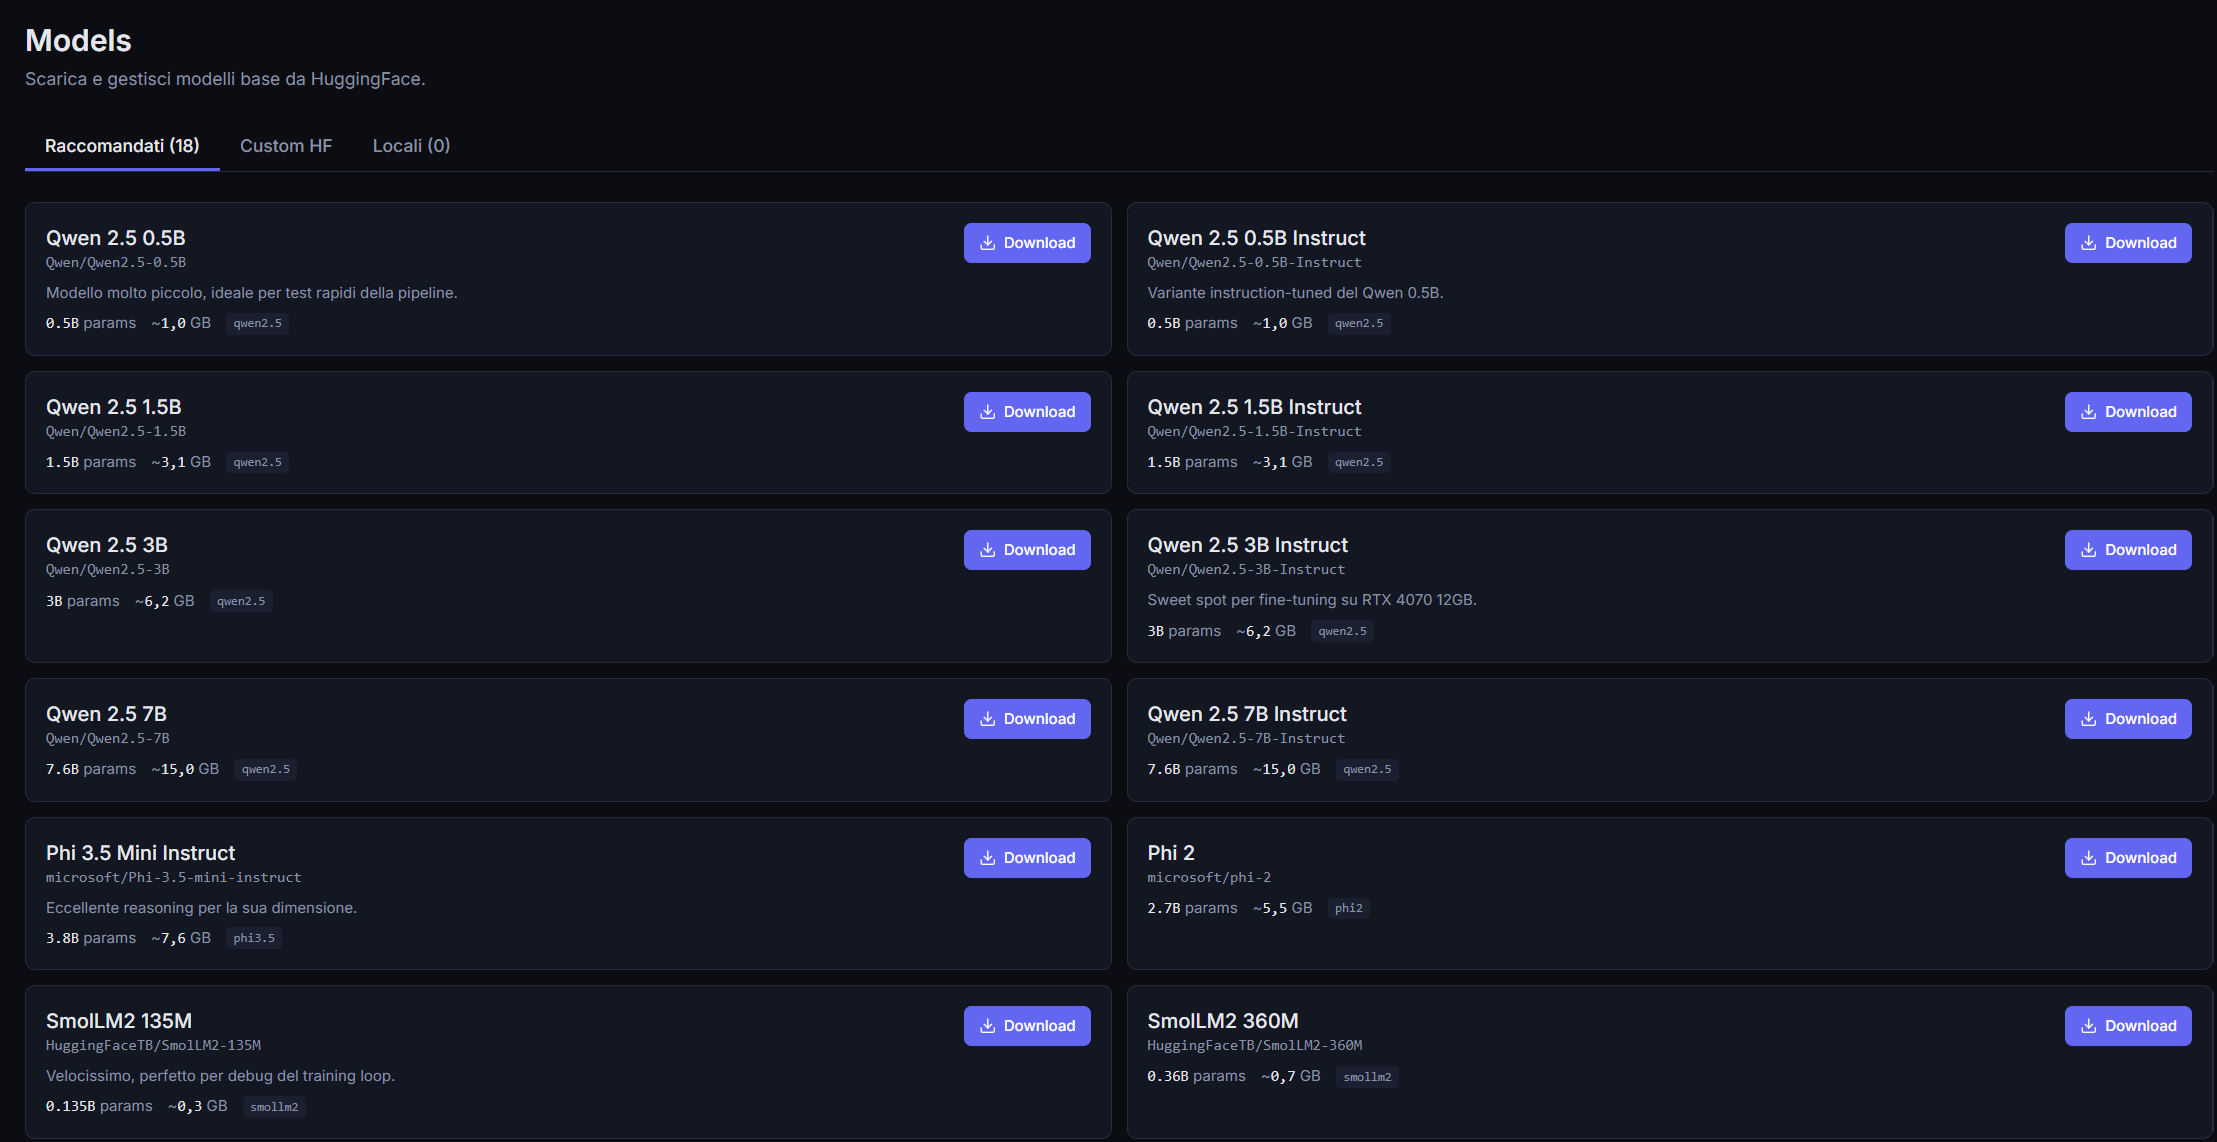
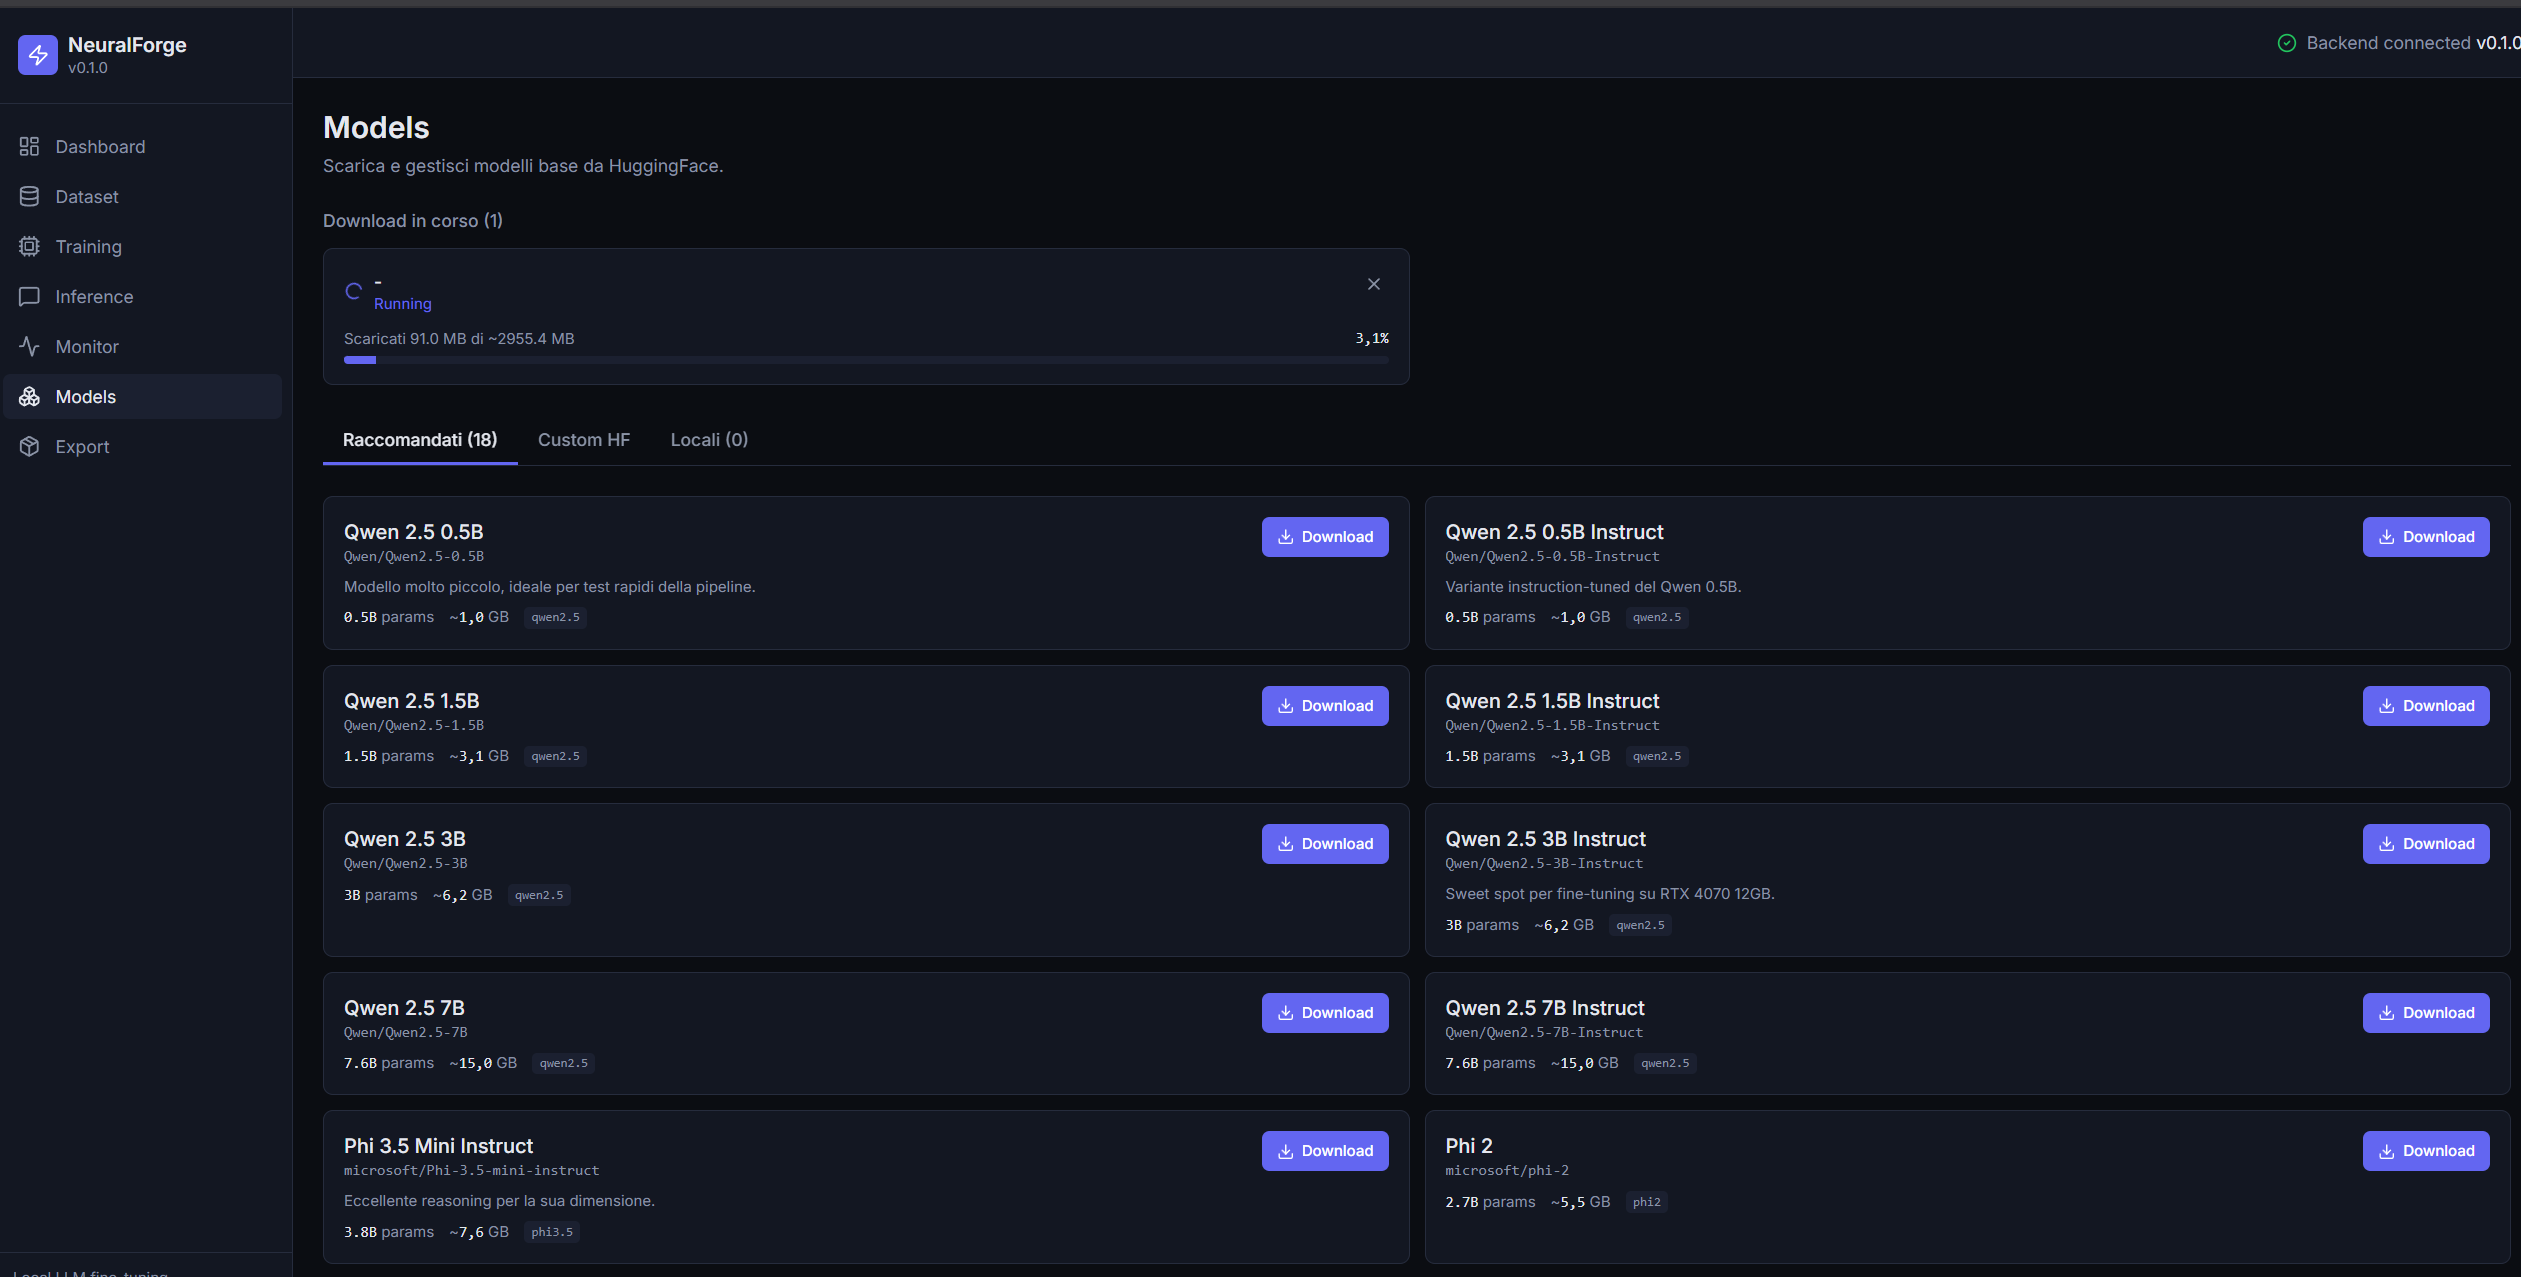
M8.5: Real-world validation + final docs
- Dataset: 123 hand-written Q&A pairs (NeuralForge API docs, no AI generation)
- Training: Qwen2.5-1.5B-Instruct + QLoRA rank 32, 3 epochs, 1m 38s on RTX 4070
- Final loss 2.09 with clear base/FT domain shift demonstrated
- YouTube demo video: https://youtu.be/sem7k0spFh4
- 7 screenshots covering full workflow (dashboard, models, dataset, training, live monitor, inference, export)
- README EN+IT updated with validation table, base vs FT comparison narrative

diff --git a/README.it.md b/README.it.md
@@ -24,32 +24,58 @@ Training QLoRA, confronto inference side-by-side, export GGUF in un click — tu
   <img src="docs/screenshots/dashboard.png" alt="NeuralForge Dashboard" width="900" />
 </p>
 
+### 🎥 Video demo
+
+[![Guarda la demo](https://img.shields.io/badge/▶_Guarda_su_YouTube-red?style=for-the-badge&logo=youtube)](https://youtu.be/sem7k0spFh4)
+
+Walkthrough end-to-end: download custom HuggingFace → import dataset → training QLoRA con monitor live → confronto base vs fine-tuned → export GGUF.
+
 <details>
 <summary><strong>Altri screenshot</strong></summary>
 
 ### Model Manager
+Whitelist di modelli HuggingFace curati, download da repo HF custom con detection dei modelli gated, e un registro locale dei modelli scaricati.
+
 <p align="center">
   <img src="docs/screenshots/models.png" alt="Model Manager" width="850" />
 </p>
 
 ### Wizard Dataset
+Wizard a 3 step per importare dataset da PDF, DOCX, CSV, TXT, JSON o JSONL in formato alpaca.
+
 <p align="center">
   <img src="docs/screenshots/dataset.png" alt="Wizard Dataset" width="850" />
 </p>
 
-### In arrivo
-- Live Monitor Training (chart in tempo reale) — `docs/screenshots/training-live.png`
-- Confronto Inference (base vs fine-tunato) — `docs/screenshots/inference.png`
-- Export GGUF — `docs/screenshots/export.png`
+### Configurazione Training
+Config suggerita automaticamente in base alla GPU/VRAM rilevata, con controllo manuale completo sugli iperparametri QLoRA.
+
+<p align="center">
+  <img src="docs/screenshots/training.png" alt="Configurazione Training" width="850" />
+</p>
+
+### Live Monitor
+Chart in tempo reale (loss, learning rate, VRAM, throughput) streammati via WebSocket durante il training.
+
+<p align="center">
+  <img src="docs/screenshots/live-training.png" alt="Live Monitor" width="850" />
+</p>
+
+### Confronto Inference
+Confronto side-by-side tra modello base e fine-tunato sullo stesso prompt.
+
+<p align="center">
+  <img src="docs/screenshots/inference.png" alt="Confronto Inference" width="850" />
+</p>
+
+### Export GGUF
+Conversione one-click a GGUF (Q4_K_M, Q5_K_M, Q8_0, Q3_K_M, F16). Scarica automaticamente llama.cpp al primo export.
+
+<p align="center">
+  <img src="docs/screenshots/export.png" alt="Export GGUF" width="850" />
+</p>
 
 </details>
-
-### 🎥 Video demo
-
-<!-- TODO: Sostituire con il link YouTube reale una volta registrato -->
-> Un walkthrough di 2-3 minuti del workflow completo (scarica modello → carica dataset → training → confronto → export).
->
-> **In arrivo:** `https://youtu.be/...`
 
 ---
 
@@ -59,7 +85,40 @@ NeuralForge è una piattaforma di fine-tuning local-first per LLM. Avvolge lo st
 
 **L'intera pipeline gira sulla tua macchina.** Nessuna telemetria, nessuna API key, nessun dato che esce dall'hardware. Tu porti un base model da HuggingFace e un dataset; NeuralForge gestisce tokenizzazione, training QLoRA con monitoring live, confronto inference, ed export al formato GGUF usato da Ollama, LM Studio e llama.cpp.
 
-Pensato per il sweet spot delle GPU consumer: una singola scheda da 12 GB (classe RTX 4070) è sufficiente per fare fine-tuning di modelli classe 3B.
+Pensato per il sweet spot delle GPU consumer: una singola scheda da 12 GB (classe RTX 4070) è sufficiente per fare fine-tuning di modelli classe 1-3B.
+
+## Validazione su caso reale
+
+NeuralForge è stata usata per fare fine-tuning di un modello sulla sua stessa documentazione API come proof-of-concept. Il run completo è documentato nel video demo qui sopra.
+
+| Voce | Valore |
+|---|---|
+| Hardware | NVIDIA RTX 4070 (12 GB VRAM) |
+| Base model | Qwen2.5-1.5B-Instruct |
+| Dataset | 123 coppie Q&A scritte a mano (NeuralForge API docs, senza AI generation) |
+| Strategia | QLoRA, LoRA rank 32, 3 epoche |
+| Tempo di training | **1 min 38 sec** |
+| Step | 93 |
+| Loss finale | 2.09 |
+| VRAM di picco | ~3.9 GB |
+
+### Output di esempio: base vs fine-tunato
+
+Stesso prompt a entrambi i modelli: *"What is the purpose of the /api/training endpoint?"*
+
+**Base model (Qwen2.5-1.5B-Instruct, senza fine-tuning):**
+
+> The /api/training endpoint is used to submit training requests and receive responses from an assistant. It allows users to request specific tasks or information from the assistant, such as completing a task, finding relevant information, or answering questions.
+
+→ Generico e off-topic. Il modello base non ha idea di cosa sia NeuralForge e tratta "training" come una specie di servizio di formazione aziendale.
+
+**Modello fine-tunato (stesso base + 1m 38s di training QLoRA sul dataset):**
+
+> The /api/training endpoint runs fine-tuning jobs (...). The frontend POSTs a JSON with model name, dataset path (optional), base config (e.g., LlamaConfig), and optional overrides (custom learning rate, temperature). The backend creates an AsyncJob object in state.db, which tracks progress through the run() method. Once complete, the frontend polls for status updates until 'finished' or 'failed', then displays the result page with download links to the final weights and logs files.
+
+→ Stesso prompt, risposta completamente diversa: ora dentro al dominio NeuralForge. Il modello ha imparato la struttura request/response (POST + payload JSON), il pattern async job, e il flusso di polling. Ci sono alcune piccole imprecisioni (il backend reale non gira su AWS), ma lo shift di dominio è visibile e il pattern strutturale coincide con la documentazione.
+
+Questo è un proof-of-concept su un dataset minimo. Con dataset più grandi (1000+ esempi), modelli più grandi (Phi-3.5-mini, Llama-3.2-3B) e più epoche, è ottenibile una specializzazione molto più netta — è la roadmap della v0.2.0.
 
 ## Funzionalità
 
@@ -183,7 +242,7 @@ Poi apri <http://127.0.0.1:5173> nel browser. Le API docs sono su <http://127.0.
 - ✅ M5: training API + WebSocket live monitor + storico
 - ✅ M6: inference + confronto side-by-side base/FT
 - ✅ M7: pipeline export GGUF con llama.cpp auto-scaricato
-- ✅ M8: polish, onboarding, documentazione
+- ✅ M8: polish, onboarding, documentazione, validazione real-world
 
 ### v0.2.0 (pianificato)
 - Modulo Dataset Importer (MITRE ATT&CK, NIST CSF, CVE database, plugin custom)

diff --git a/README.md b/README.md
@@ -24,32 +24,58 @@ QLoRA training, side-by-side inference comparison, one-click GGUF export — all
   <img src="docs/screenshots/dashboard.png" alt="NeuralForge Dashboard" width="900" />
 </p>
 
+### 🎥 Video demo
+
+[![Watch the demo](https://img.shields.io/badge/▶_Watch_on_YouTube-red?style=for-the-badge&logo=youtube)](https://youtu.be/sem7k0spFh4)
+
+End-to-end walkthrough: custom HuggingFace download → dataset import → QLoRA training with live monitor → base vs fine-tuned comparison → GGUF export.
+
 <details>
 <summary><strong>More screenshots</strong></summary>
 
 ### Model Manager
+Whitelist of curated HuggingFace models, custom HF repo download with gated detection, and a local registry of downloaded models.
+
 <p align="center">
   <img src="docs/screenshots/models.png" alt="Model Manager" width="850" />
 </p>
 
 ### Dataset wizard
+3-step wizard for importing datasets from PDF, DOCX, CSV, TXT, JSON, or JSONL into alpaca format.
+
 <p align="center">
   <img src="docs/screenshots/dataset.png" alt="Dataset wizard" width="850" />
 </p>
 
-### Coming soon
-- Training Live Monitor (real-time charts) — `docs/screenshots/training-live.png`
-- Inference comparison (base vs fine-tuned) — `docs/screenshots/inference.png`
-- GGUF Export — `docs/screenshots/export.png`
+### Training configuration
+Auto-suggested config based on detected GPU/VRAM, plus full manual control over QLoRA hyperparameters.
+
+<p align="center">
+  <img src="docs/screenshots/training.png" alt="Training configuration" width="850" />
+</p>
+
+### Live Monitor
+Real-time charts (loss, learning rate, VRAM, throughput) streamed via WebSocket while training runs.
+
+<p align="center">
+  <img src="docs/screenshots/live-training.png" alt="Live Monitor" width="850" />
+</p>
+
+### Inference comparison
+Side-by-side comparison of base vs fine-tuned models on the same prompt.
+
+<p align="center">
+  <img src="docs/screenshots/inference.png" alt="Inference comparison" width="850" />
+</p>
+
+### GGUF Export
+One-click conversion to GGUF (Q4_K_M, Q5_K_M, Q8_0, Q3_K_M, F16). Auto-downloads llama.cpp on first export.
+
+<p align="center">
+  <img src="docs/screenshots/export.png" alt="GGUF Export" width="850" />
+</p>
 
 </details>
-
-### 🎥 Demo video
-
-<!-- TODO: Replace with real YouTube link once recorded -->
-> A 2–3 minute walkthrough of the full workflow (download model → upload dataset → train → compare → export).
->
-> **Coming soon:** `https://youtu.be/...`
 
 ---
 
@@ -59,7 +85,40 @@ NeuralForge is a local-first fine-tuning platform for LLMs. It wraps the PyTorch
 
 **The whole pipeline runs on your machine.** No telemetry, no API keys, no data leaving your hardware. You bring a base model from HuggingFace and a dataset; NeuralForge handles tokenization, QLoRA training with live monitoring, inference comparison, and export to the GGUF format used by Ollama, LM Studio, and llama.cpp.
 
-Built for the consumer-GPU sweet spot: a single 12 GB card (RTX 4070-class) is enough to fine-tune 3B-class models.
+Built for the consumer-GPU sweet spot: a single 12 GB card (RTX 4070-class) is enough to fine-tune 1-3B class models.
+
+## Real-world validation
+
+NeuralForge has been used to fine-tune a model on its own API documentation as a proof-of-concept. The full run is captured in the demo video above.
+
+| Item | Value |
+|---|---|
+| Hardware | NVIDIA RTX 4070 (12 GB VRAM) |
+| Base model | Qwen2.5-1.5B-Instruct |
+| Dataset | 123 hand-written Q&A pairs (NeuralForge API docs, no AI generation) |
+| Strategy | QLoRA, LoRA rank 32, 3 epochs |
+| Training time | **1 min 38 sec** |
+| Steps | 93 |
+| Final loss | 2.09 |
+| Peak VRAM during training | ~3.9 GB |
+
+### Sample output: base vs fine-tuned
+
+Same prompt to both models: *"What is the purpose of the /api/training endpoint?"*
+
+**Base model (Qwen2.5-1.5B-Instruct, no fine-tuning):**
+
+> The /api/training endpoint is used to submit training requests and receive responses from an assistant. It allows users to request specific tasks or information from the assistant, such as completing a task, finding relevant information, or answering questions.
+
+→ Generic and off-topic. The base model has no idea what NeuralForge is and treats "training" as some kind of corporate training service.
+
+**Fine-tuned model (same base + 1m 38s of QLoRA training on the dataset):**
+
+> The /api/training endpoint runs fine-tuning jobs (...). The frontend POSTs a JSON with model name, dataset path (optional), base config (e.g., LlamaConfig), and optional overrides (custom learning rate, temperature). The backend creates an AsyncJob object in state.db, which tracks progress through the run() method. Once complete, the frontend polls for status updates until 'finished' or 'failed', then displays the result page with download links to the final weights and logs files.
+
+→ Same prompt, completely different answer: now in the NeuralForge domain. The model has learned the request/response structure (POST + JSON payload), the async job pattern, and the polling flow. There are minor inaccuracies (the actual backend doesn't run on AWS), but the domain shift is visible and the structural pattern matches the documentation.
+
+This is a single-run proof-of-concept on a tiny dataset. With a larger dataset (1000+ examples), bigger models (Phi-3.5-mini, Llama-3.2-3B), and more epochs, much sharper specialization is achievable — that's the v0.2.0 roadmap.
 
 ## Features
 
@@ -183,7 +242,7 @@ Then open <http://127.0.0.1:5173> in your browser. API docs are at <http://127.0
 - ✅ M5: training API + WebSocket live monitor + history
 - ✅ M6: inference + base/FT side-by-side comparison
 - ✅ M7: GGUF export pipeline with auto-downloaded llama.cpp
-- ✅ M8: polish, onboarding, documentation
+- ✅ M8: polish, onboarding, documentation, real-world validation
 
 ### v0.2.0 (planned)
 - Dataset Importer module (MITRE ATT&CK, NIST CSF, CVE database, custom plugins)

diff --git a/STATUS.md b/STATUS.md
@@ -276,3 +276,33 @@ Fix 6  ✅ Empty states con CTA (Dataset, Models, Inference, Export)
 Fix 7  ✅ Conferme distruttive (aggiunta a handleCancelJob)
 Fix 8  ✅ Error Boundary React (componente + wrap in main.jsx)
 Fix 9  ✅ Tooltip parametri tecnici (già fatti, encoding ok)
+
+Ricapitolando la sessione
+Hai fatto un MUCCHIO oggi:
+M8.1 — 9 fix di polish
+
+Em-dash sistemati
+Page title dinamico su 8 pagine
+Favicon NeuralForge
+Backend offline badge (già OK)
+PageLoader uniforme
+4 empty states con CTA
+Conferma su cancel job
+ErrorBoundary React
+Tooltip parametri tecnici (già OK, encoding OK)
+
+M8.2 — Onboarding QuickStartGuide
+
+Componente con 3 step grafici (Models → Dataset → Training)
+Auto-hide quando completato
+Stati visuali (done/active/locked) con badge
+
+M8.3 — Documentazione completa
+
+README inglese serio (hero, features, architecture, roadmap)
+README italiano speculare
+LICENSE MIT
+CONTRIBUTING
+3 screenshot integrati
+
+Sei a 8.5/9 milestone. Manca M8.5 (validazione + demo) e M8.6 (soft packaging).
